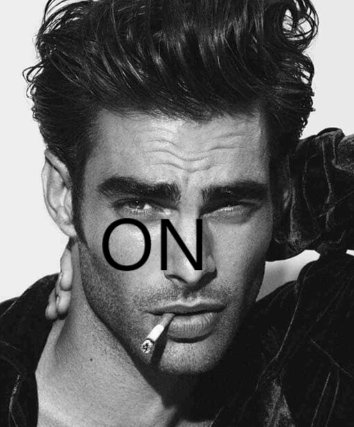
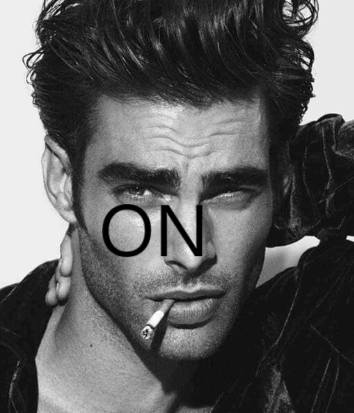
sigma boy

diff --git a/strona.html b/strona.html
@@ -1,0 +1,47 @@
+<!DOCTYPE html>
+<html lang="en">
+<head>
+    <meta charset="UTF-8">
+    <meta name="viewport" content="width=device-width, initial-scale=1.0">
+    <title>SIGMA | Ecommerce Website Design</title>
+    <link rel="stylesheet" href="style2.css">
+</head>
+<body> 
+
+
+    <div class="container">
+        <div class="navbar">
+            <div class="logo">
+                <img src="/PHOTOS/sigma2.png" width="125px">
+            </div>
+            <nav>
+                <ul>
+                    <li><a href="">Strona główna</a></li>
+                    <li><a href="">Produkty</a></li>
+                    <li><a href="">O nas</a></li>
+                    <li><a href="">Kontakt</a></li>
+                    <li><a href="">Konto</a></li>
+                </ul>
+            </nav>
+        </div>
+        <div class="row">
+            <div class="col-2 ">
+                <h1>Give Yourself <br>A fresh look!</h1>
+                <p>Mistake is the lesson <br> Inaction is a falure <br>Tymon Szyler</p>
+            </div>
+            <div class="col-2 ">
+                <a href="http://127.0.0.1:5500/strona.html">
+                    <img src="PHOTOS/on.png" alt="Ona" style="cursor: pointer;">
+                </a>
+            
+            
+                <a href="http://127.0.0.1:5500/strona.html">
+                    <img src="PHOTOS/ona.png" alt="Ona" style="cursor: pointer;">
+                </a>
+            
+            </div>
+        </div>
+    </div>
+   
+</body>
+</html>

diff --git a/style2.css b/style2.css
@@ -1,0 +1,77 @@
+*{
+    margin:0;
+    padding: 0;
+    box-sizing: border-box;
+}
+.navbar{
+    display: flex;
+    align-items: center;
+    padding: 20px;
+}
+nav{
+    flex: 1;
+    text-align: right;
+}
+nav ul{
+    display: inline-block;
+    list-style-type: none;
+
+}
+nav ul li{
+    display: inline-block;
+    margin-right: 20px;
+}
+a{
+    text-decoration: none;
+    color:darkcyan
+}
+p{
+    color:darkcyan;
+}
+
+.container{
+    max-width: 1300px;
+    margin: auto;
+    padding-left: 25px;
+    padding-right: 25px;
+}
+
+.row{
+    display: flex;
+    align-items: center;
+    flex-wrap: wrap;
+    justify-content: space-around;
+
+}
+.col-2 {
+    display: block; 
+    justify-content: center; 
+    gap: 20px; 
+    flex-wrap: wrap; /* Dla małych ekranów obrazki przejdą pod spód */
+}
+
+.col-2 img {
+    width: 410px; /* Rozmiar obrazków */
+    height: auto;
+    padding: 0; /* Usuń dodatkowe paddingi */
+    cursor: pointer;
+}   
+
+.col-2 h1{
+    font-size: 50px;
+    line-height: 60px;
+    margin: 25px 0;
+}
+
+.images {
+    display: flex; 
+    justify-content: center; 
+    gap: 20px; /* Odstęp między obrazkami */
+    align-items: center; 
+}
+
+.images img {
+    width: 150px;   
+    height: auto;
+    padding: 0;
+}
